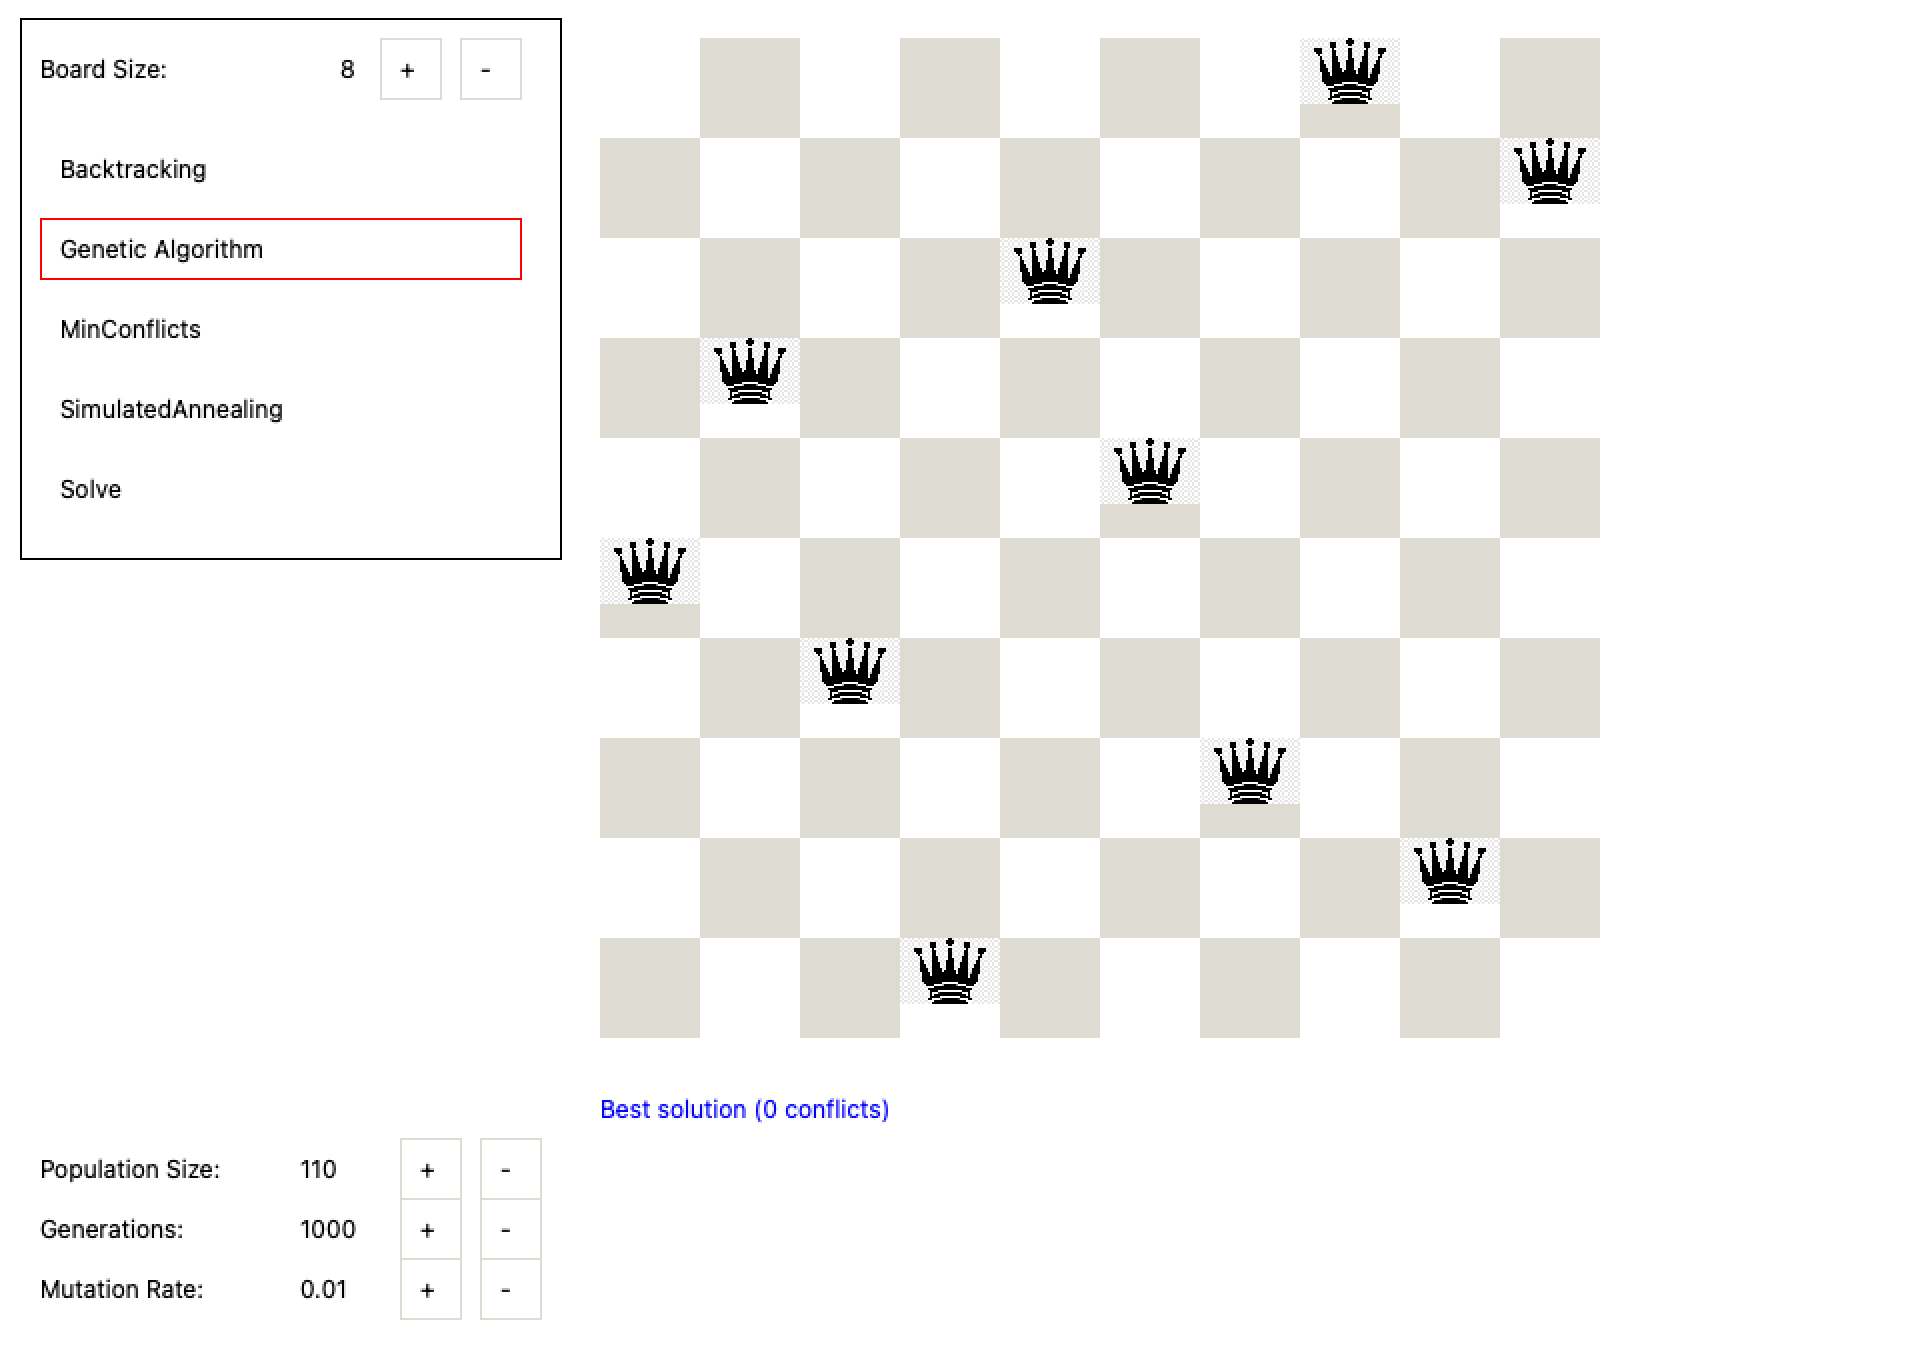
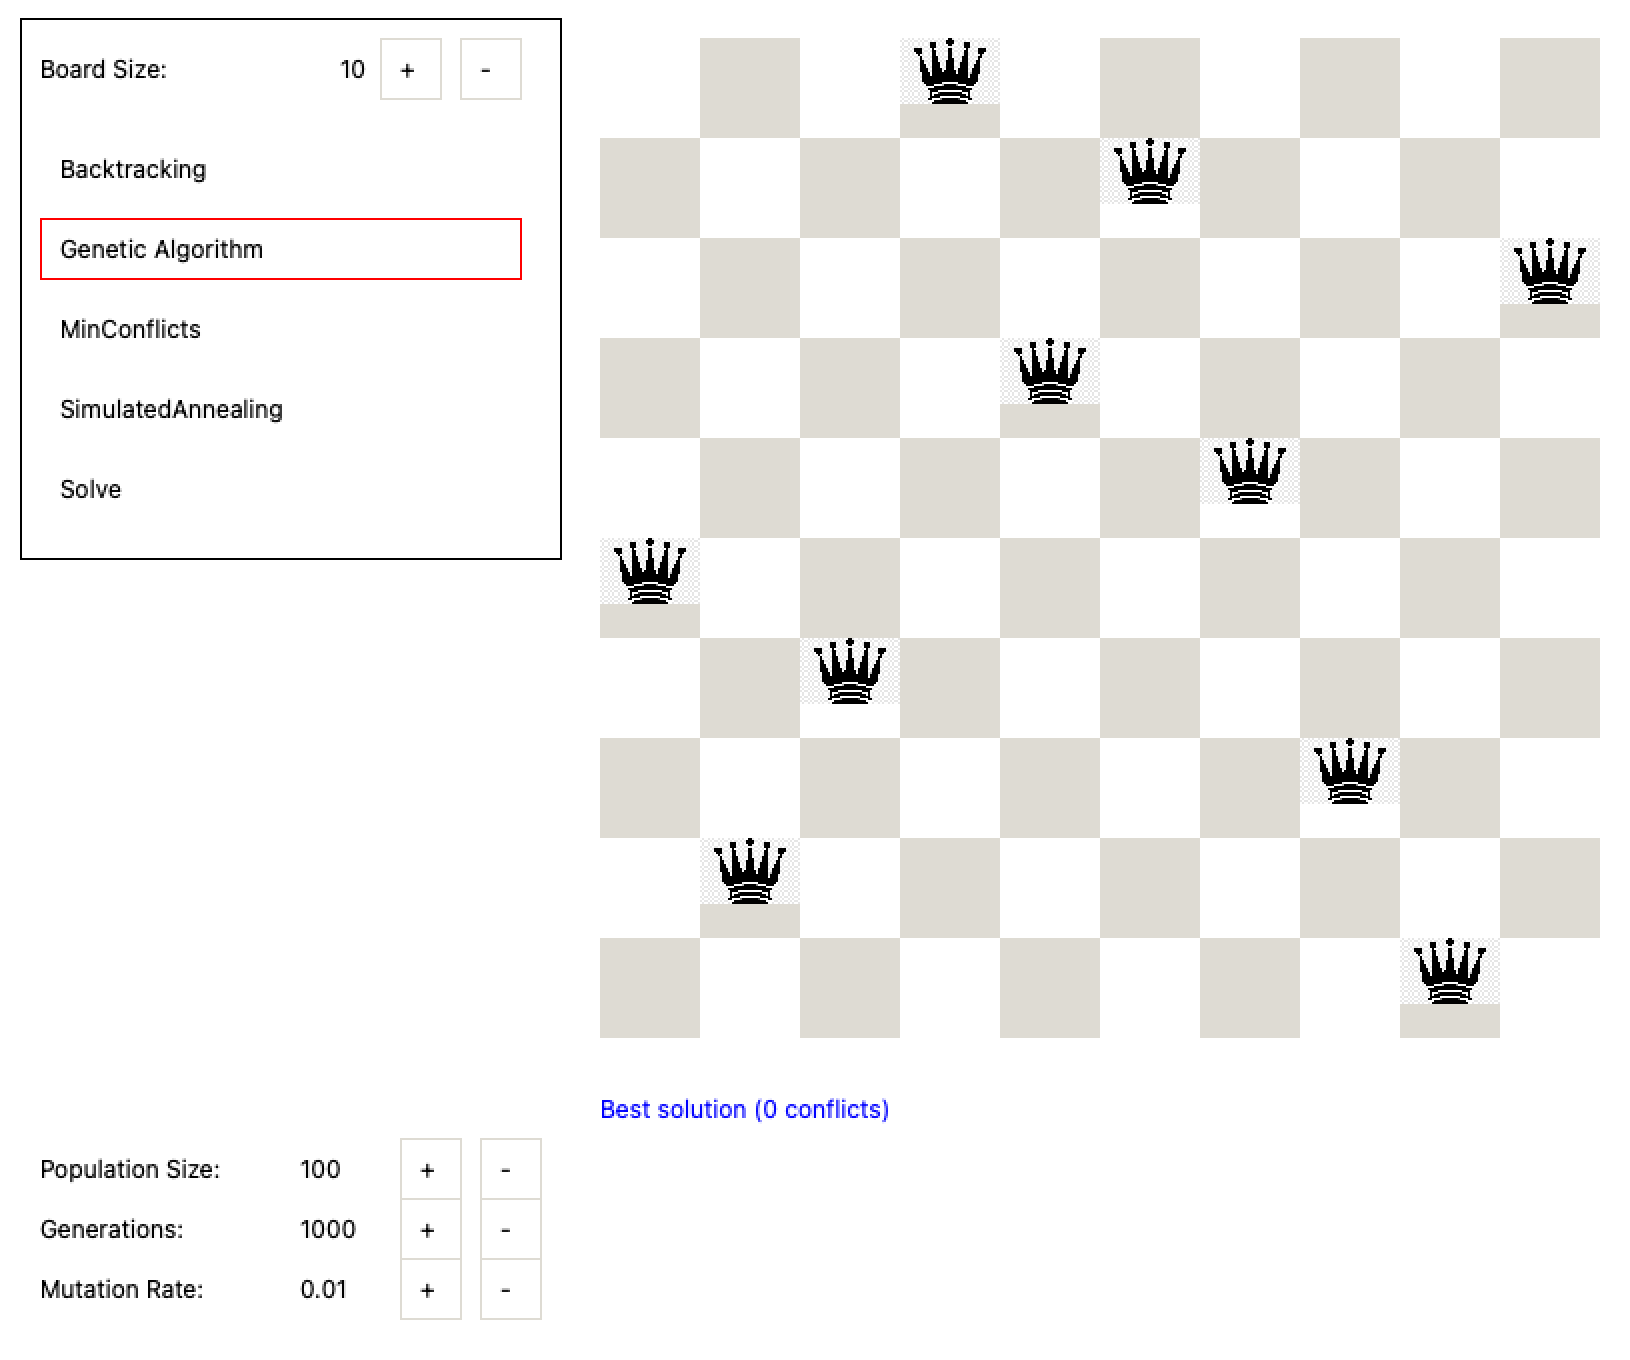
README improved

diff --git a/main.cpp b/main.cpp
@@ -308,7 +308,7 @@ int main() {
 
     Event ev;
     while (true) {
-        if (changeSolver)
+        if (changeSolver || changeBoardSize)
             drawSolverSelector();
 
         if (changeParameters || changeSolver)

diff --git a/readme.md b/readme.md
@@ -2,9 +2,7 @@
 
 This project is a comprehensive solution to the classic N-Queens problem, developed for the course "Atelier de programmation" by Quang and Alfonso Mateos Vicente. The project features multiple algorithms to solve the N-Queens problem, all implemented in C++.
 
-<div style="text-align: center;">
-  <img src="images/Screenshot.png" alt="Screenshot">
-</div>
+![Screenshot.png](images%2FScreenshot.png)
 
 ## 📁 Project Structure
 
